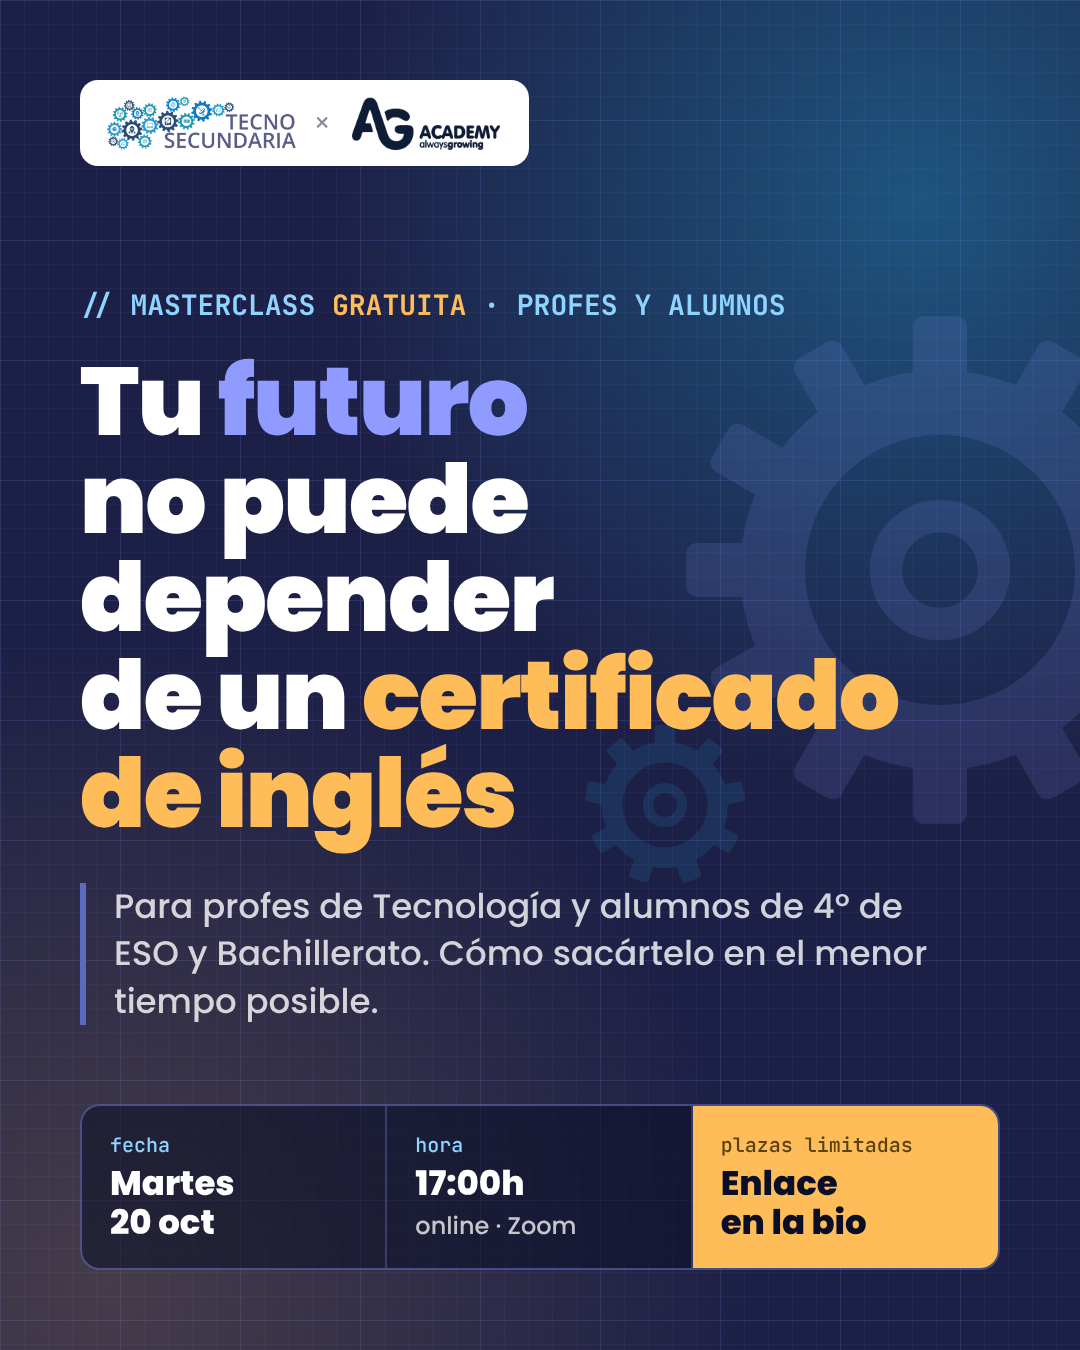
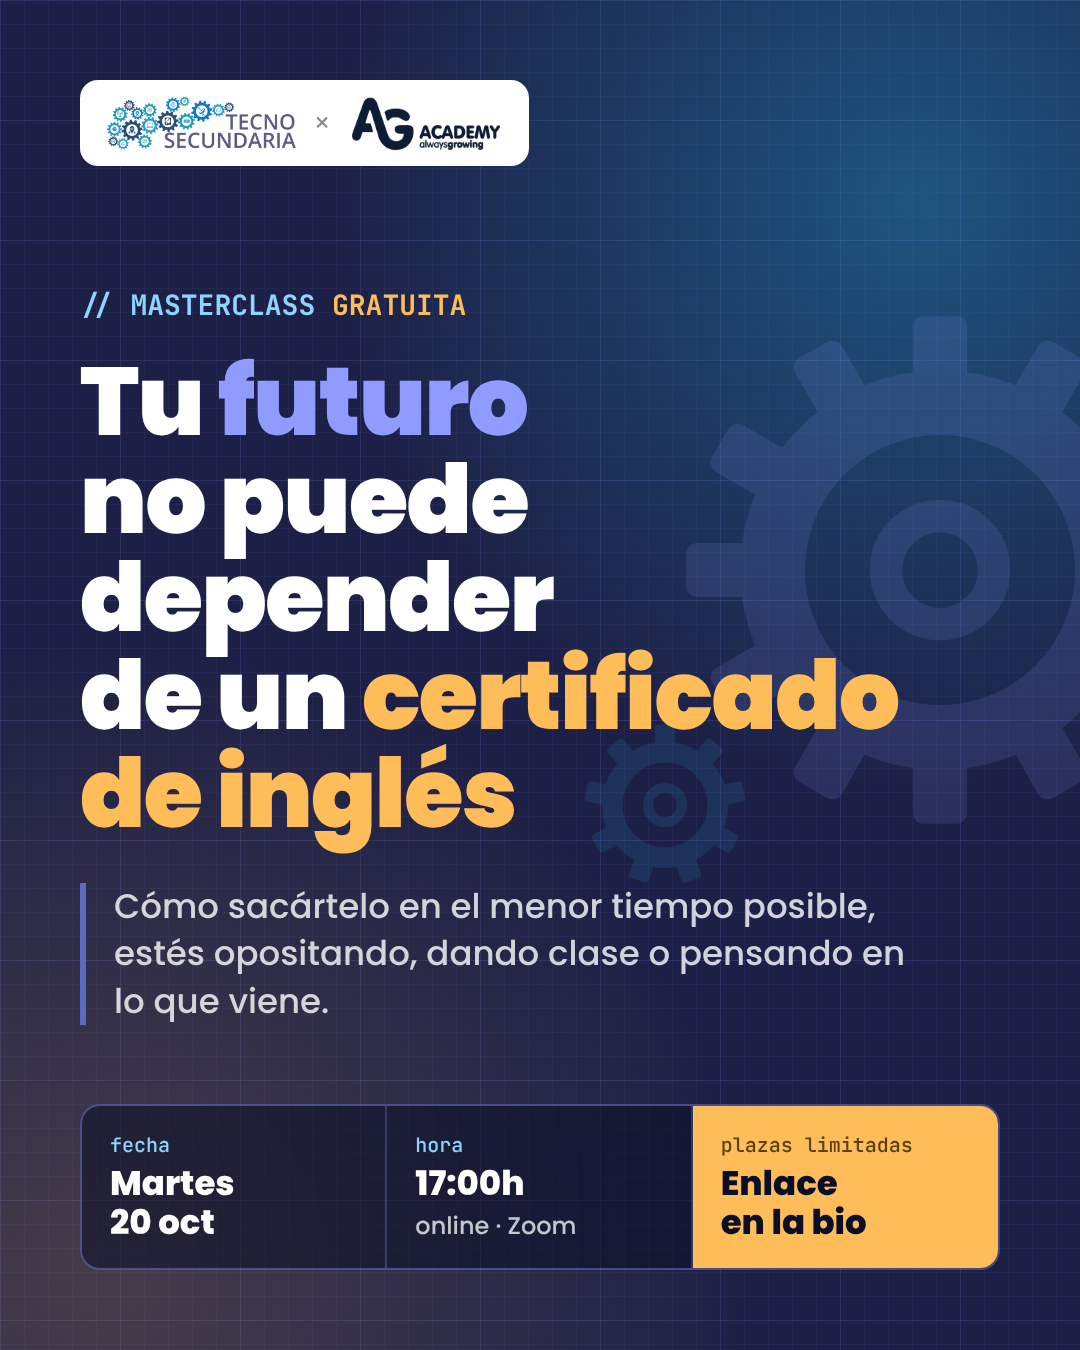
Promo kits per partner: Oposdeport aligned to EF teachers, Tecnosecundaria with open copy
Claude-Session: https://claude.ai/code/session_01K3kACsC7VJzSCraEBbfL27

Changed region(s): [[0.0917, 0.6533, 0.8556, 0.7778], [0.6111, 0.2178, 0.7333, 0.2489], [0.4889, 0.2178, 0.5806, 0.2489]]

diff --git a/landings/tecnosecundaria/01-hero.html b/landings/tecnosecundaria/01-hero.html
@@ -341,7 +341,7 @@
   <!-- BADGE -->
   <div class="ag-ec-hero-badge">
     <span class="ag-ec-hero-badge-dot"></span>
-    MASTERCLASS GRATUITA · PROFES Y ALUMNOS
+    MASTERCLASS GRATUITA · PLAZAS LIMITADAS
   </div>
 
   <br>
@@ -354,9 +354,9 @@
 
   <!-- SUBTITLE -->
   <p class="ag-ec-hero-sub">
-    Seas profe de Tecnología o estés en 4º de la ESO o Bachillerato, descubre cómo sacarte
-    el certificado oficial de inglés <strong>en el menor tiempo posible</strong>.
-    Para tu plaza, para la universidad o para lo que venga después.
+    Estés opositando, dando clase en Secundaria o pensando en lo que viene,
+    descubre cómo sacarte el certificado oficial de inglés <strong>en el menor tiempo posible</strong>.
+    Para tu plaza, para tus estudios o para lo que venga después.
   </p>
 
   <!-- DATE -->
@@ -373,6 +373,6 @@
 
   <!-- 👇 BOTÓN NATIVO KAJABI JUSTO DEBAJO 👇 -->
 
-  <p class="ag-ec-spots-note">🔥 <strong>Exclusiva</strong> para profes y alumnos de la comunidad Tecnosecundaria</p>
+  <p class="ag-ec-spots-note">🔥 <strong>Exclusiva</strong> para la comunidad Tecnosecundaria</p>
 
 </div>

diff --git a/landings/tecnosecundaria/02-presentadores.html b/landings/tecnosecundaria/02-presentadores.html
@@ -218,7 +218,7 @@
         <p class="ag-ec-pres-bio">
           Profesor de Tecnología e Informática y <strong>funcionario de carrera desde 2006</strong>.
           Su web, premiada dos veces entre las mejores de la Región de Murcia,
-          es un recurso de referencia para profes y alumnos de Tecnología de ESO y Bachillerato.
+          es un recurso de referencia para la comunidad de Tecnología de Secundaria.
         </p>
       </div>
     </div>

diff --git a/landings/tecnosecundaria/difusion/textos-difusion.md b/landings/tecnosecundaria/difusion/textos-difusion.md
@@ -2,24 +2,19 @@
 
 Landing: https://www.agacademyaptis.com/tecnosecundaria-ag-academy-20-10-2026
 
-Enlaces con seguimiento:
-- Email: https://www.agacademyaptis.com/tecnosecundaria-ag-academy-20-10-2026?utm_source=tecnosecundaria&utm_medium=email&utm_campaign=masterclass20oct
-- WhatsApp: https://www.agacademyaptis.com/tecnosecundaria-ag-academy-20-10-2026?utm_source=tecnosecundaria&utm_medium=whatsapp&utm_campaign=masterclass20oct
-- Instagram (bio): https://www.agacademyaptis.com/tecnosecundaria-ag-academy-20-10-2026?utm_source=tecnosecundaria&utm_medium=instagram&utm_campaign=masterclass20oct
-
 ## Email
 
 Asunto: El inglés no debería frenarte
-Asunto alternativo: ¿Tienes ya tu certificado de inglés?
+Asunto alternativo: ¿Sigue el inglés en tu lista de pendientes?
 Preheader: Masterclass gratuita el martes 20 de octubre a las 17:00h
 
 Hola,
 
-Te escribo porque he preparado algo que creo que te puede venir muy bien, seas profe o alumno.
+Si das clase en Secundaria o estás preparando la oposición, seguro que el inglés te ha salido más de una vez. Suma en el baremo, puede abrirte puertas y, tarde o temprano, te lo van a pedir. Y casi siempre llega en el peor momento.
 
-Tarde o temprano, casi todos nos topamos con lo mismo: un certificado oficial de inglés. A los profes nos suma en oposiciones y nos abre puertas. A los alumnos os lo van a pedir en la universidad, para un Erasmus o para el primer trabajo. Y casi siempre llega en el peor momento.
+No es solo cosa de profes: cada vez más gente necesita acreditar su nivel para estudiar, trabajar o cambiar de rumbo.
 
-Por eso he querido colaborar con AG Academy, una academia especializada en que profes y estudiantes se saquen su certificado oficial de inglés. Llevan más de 6.000 alumnos y un 94% de aprobados.
+Por eso he querido colaborar con AG Academy, una academia especializada en preparar certificados oficiales de inglés. Llevan más de 6.000 alumnos y un 94% de aprobados.
 
 El martes 20 de octubre a las 17:00h, Jesu, su fundador, da una masterclass online y gratuita para la comunidad de Tecnosecundaria. Va a contar cómo sacarte el certificado en el menor tiempo posible, sin que te coma el día.
 
@@ -30,28 +25,28 @@ Un saludo,
 Ginés
 Tecnosecundaria
 
-P.D. Si conoces a algún compañero o compañera de clase o de departamento con el inglés pendiente, reenvíale este email.
+P.D. Si conoces a alguien con el inglés pendiente, reenvíale este email.
 
 ## WhatsApp
 
-📢 *Masterclass gratuita de inglés para la comunidad Tecnosecundaria*
+📢 *Masterclass gratuita de inglés con AG Academy*
 
-¿Profe de Tecnología o alumno de 4º de ESO o Bachillerato? Tarde o temprano te van a pedir un certificado de inglés.
+¿Opositando o dando clase en Secundaria? El certificado de inglés suma, y tarde o temprano te lo van a pedir.
 
-El *martes 20 de octubre a las 17:00h* hay masterclass online con AG Academy: cómo sacártelo rápido y sin que te coma el día.
+El *martes 20 de octubre a las 17:00h* hay masterclass online: cómo sacártelo rápido y sin que te coma el día.
 
 Gratis y con plazas limitadas 👇
 https://www.agacademyaptis.com/tecnosecundaria-ag-academy-20-10-2026?utm_source=tecnosecundaria&utm_medium=whatsapp&utm_campaign=masterclass20oct
 
 ## Instagram
 
-Imagen: instagram-post-tecnosecundaria.png (1080×1350)
+Imagen: instagram-post-tecnosecundaria.png
 
 Copy:
 
 Tu futuro no puede depender de un certificado de inglés.
 
-Si eres profe, te suma en oposiciones y te abre puertas. Si estás en 4º de ESO o Bachillerato, te lo van a pedir en la universidad, para un Erasmus o para tu primer trabajo.
+Suma en las oposiciones, puede abrirte puertas y, tarde o temprano, te lo van a pedir. Estés opositando, dando clase o pensando en lo que viene, mejor tenerlo resuelto antes de que haga falta.
 
 Por eso colaboramos con @agacademy en una masterclass gratuita: cómo sacarte el certificado oficial de inglés en el menor tiempo posible.
 
@@ -60,4 +55,6 @@ Online por Zoom · Plazas limitadas
 
 Apúntate en el enlace de la bio.
 
-#tecnologia #profesdetecnologia #secundaria #bachillerato #4eso #docentes #oposiciones #certificadodeingles #aptis #ingles
+#tecnologia #profesdetecnologia #secundaria #docentes #oposiciones #oposicionessecundaria #opositores #certificadodeingles #aptis #ingles
+
+Enlace bio: https://www.agacademyaptis.com/tecnosecundaria-ag-academy-20-10-2026?utm_source=tecnosecundaria&utm_medium=instagram&utm_campaign=masterclass20oct

diff --git a/landings/oposdeport/difusion/textos-difusion.md b/landings/oposdeport/difusion/textos-difusion.md
@@ -1,0 +1,63 @@
+# Kit de difusión Oposdeport — Masterclass 20 oct 17:00h
+
+Landing: https://www.agacademyaptis.com/oposdeport+agacademy
+
+## Email
+
+Asunto: Profe de EF, ¿sigue el inglés pendiente?
+Asunto alternativo: El mérito que muchos opositores de EF se dejan
+Preheader: Masterclass gratuita el martes 20 de octubre a las 17:00h
+
+Hola,
+
+Llevas tiempo con temas, supuestos, programación y unidades didácticas. Y hay algo que muchos profes y opositores de Educación Física dejan siempre para "cuando tenga tiempo": el certificado de inglés.
+
+El problema es que ese momento nunca llega. Y en una oposición que se decide por décimas, es una pena dejarse puntos por el camino.
+
+Por eso hemos preparado algo con AG Academy, una academia especializada en que docentes y opositores se saquen su certificado oficial de inglés. Llevan más de 6.000 alumnos y un 94% de aprobados.
+
+El martes 20 de octubre a las 17:00h, Jesu, su fundador, da una masterclass online y gratuita para nuestra comunidad. Te va a contar cómo sacarte el certificado en el menor tiempo posible, sin quitarle horas a la oposición ni a tus clases.
+
+Es gratis, pero las plazas son limitadas. Reserva la tuya aquí:
+https://www.agacademyaptis.com/oposdeport+agacademy?utm_source=oposdeport&utm_medium=email&utm_campaign=masterclass20oct
+
+Nos vemos el martes 20.
+
+Un abrazo,
+Fran y el equipo de Oposdeport
+
+P.D. Si ya tienes el inglés resuelto, reenvía este email a ese compañero que lo tiene pendiente. Te lo agradecerá.
+
+## WhatsApp
+
+📢 *Masterclass gratuita para profes y opositores de EF*
+
+¿El inglés sigue en tu lista de pendientes?
+
+El *martes 20 de octubre a las 17:00h* hacemos una masterclass online con AG Academy: cómo sacarte el certificado de inglés rápido y sin quitarle horas a la oposición.
+
+Es gratis, pero hay plazas limitadas 👇
+https://www.agacademyaptis.com/oposdeport+agacademy?utm_source=oposdeport&utm_medium=whatsapp&utm_campaign=masterclass20oct
+
+## Instagram
+
+Imagen: instagram-post-oposdeport.png
+
+Copy:
+
+Profe de EF, tu plaza no puede depender de un certificado de inglés.
+
+Temas, supuestos, programación, unidades didácticas… y el inglés siempre para "cuando tenga tiempo".
+
+En una oposición que se decide por décimas, ese mérito pendiente puede marcar la diferencia.
+
+Por eso nos hemos juntado con @agacademy para una masterclass gratuita: cómo sacarte el certificado en el menor tiempo posible, sin quitarle horas a tu preparación.
+
+Martes 20 de octubre · 17:00h (hora peninsular)
+Online por Zoom · Plazas limitadas
+
+Apúntate en el enlace de la bio.
+
+#oposiciones #oposicioneseducacionfisica #educacionfisica #profesdeEF #opositores #oposicionesdocentes #maestros #certificadodeingles #aptis #oposiciones2027
+
+Enlace bio: https://www.agacademyaptis.com/oposdeport+agacademy?utm_source=oposdeport&utm_medium=instagram&utm_campaign=masterclass20oct
